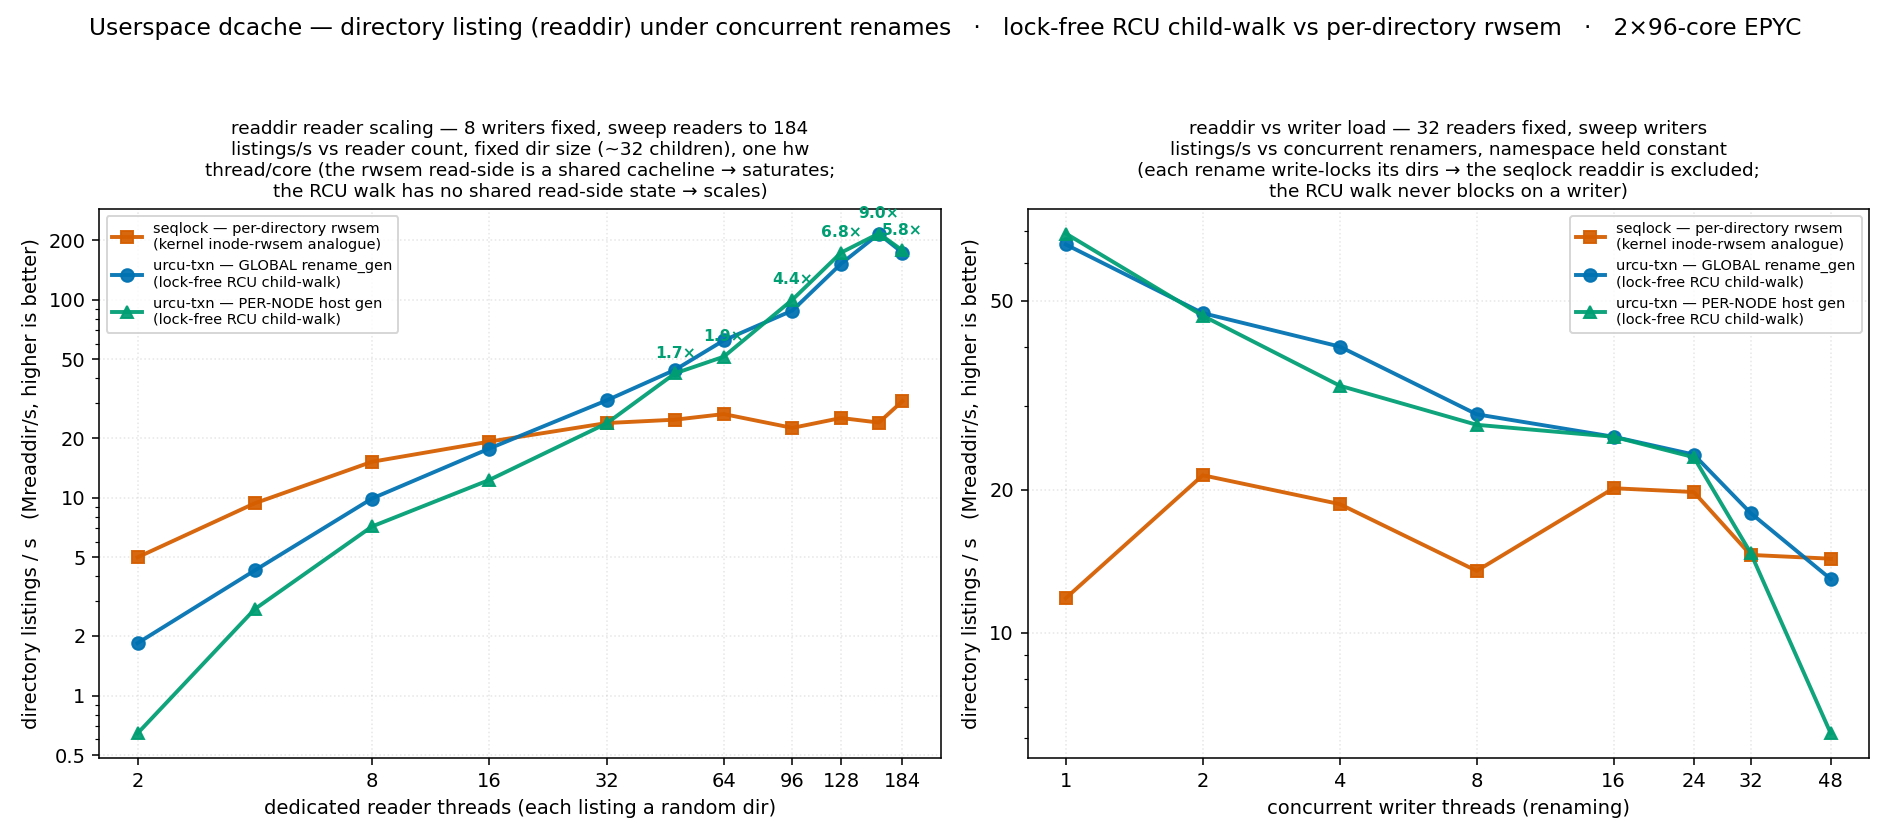
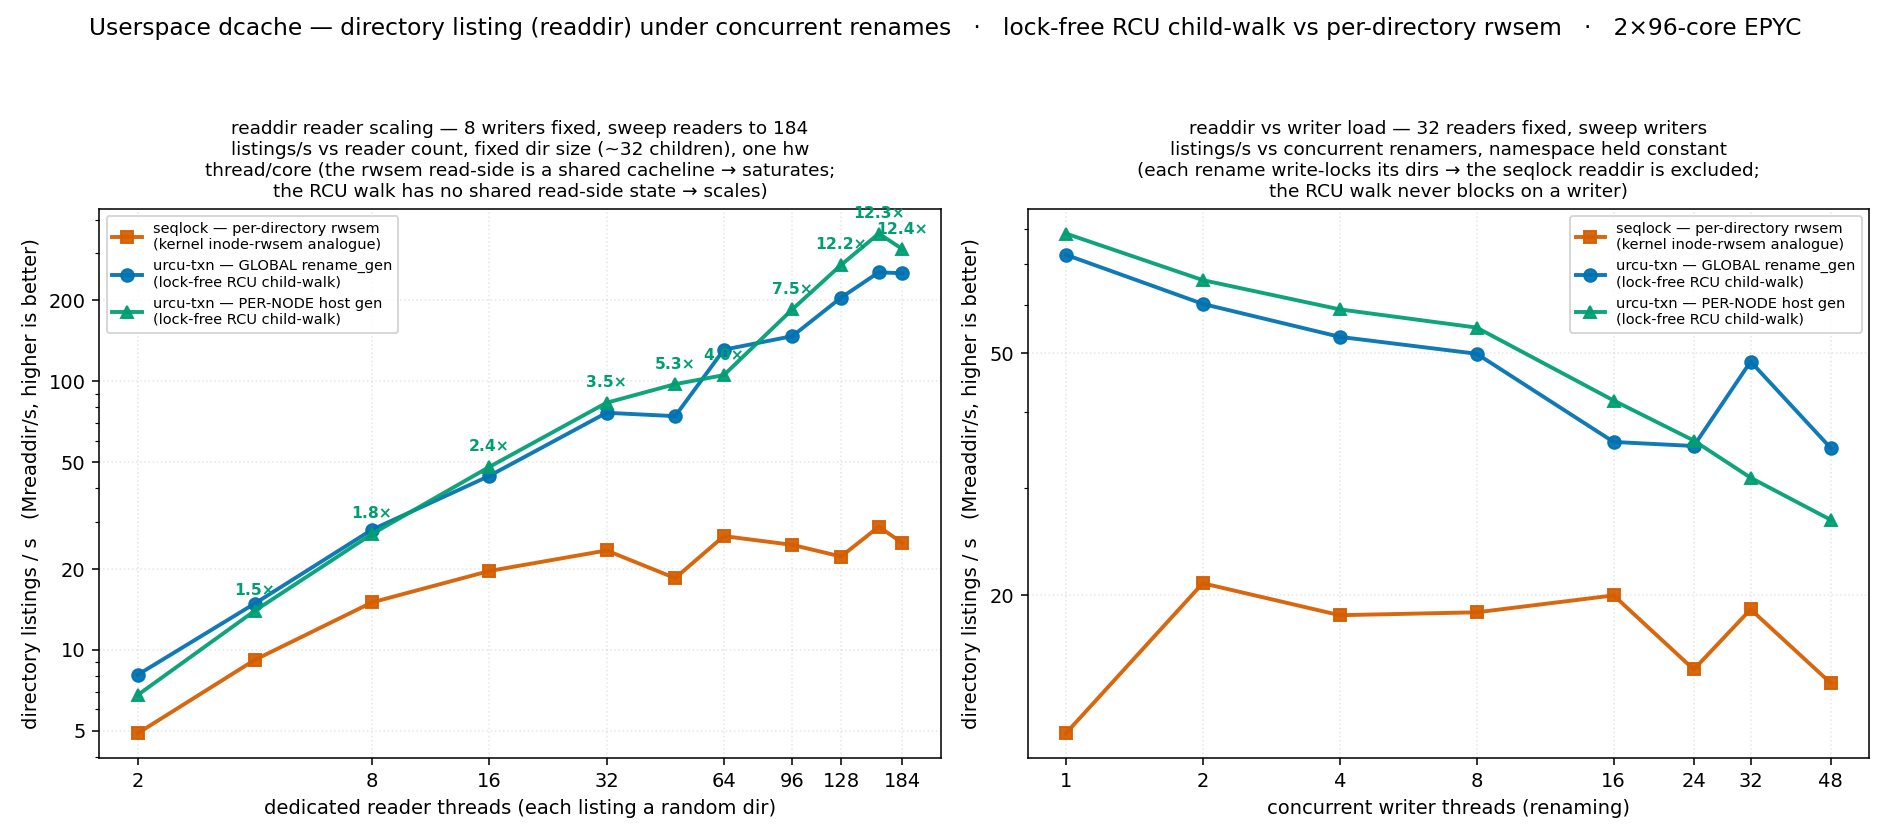
experiments/dcache: re-sweep the readdir figure on the O(1) host-skip union
The d_id/d_host union (c38a569) gives readdir's child walk an O(1) hop to
the content host (host_of_rcu) instead of an O(chain) per-child shell walk,
so the directory-listing story is no longer churn-sensitive. Re-sweep both
readdir panels on the union engine and regenerate the figure:

  - reader-scaling (8 writers, sweep readers to 184): txn now scales to
    ~355 listings/s at 160 readers (~12x the per-dir rwsem, which saturates
    ~15-29) and LEADS at every reader count -- the old ~24-32-reader
    crossover, where the rwsem's plain d_sib walk led, is gone.
  - writer-load (32 readers, sweep writers, namespace fixed): txn stays
    ~2x above the rwsem even at a saturating 48-writer rename load (~27-35
    vs ~14) instead of dipping below it. The residual decline with writer
    count is now write-side MCAS/coherence pressure, not the reader walk.

Revise the readdir subsection of rename-shell-transition.md and the
S3-readdir README bullet to match, crediting the write-once d_host skip
pointer as the mechanism. Add PANELS= support to run_dcache.sh so a single
panel can be re-swept in place without disturbing the other CSV rows.

142-row sweep, 0 conservation failures.

diff --git a/experiments/dcache/rename-shell-transition.md b/experiments/dcache/rename-shell-transition.md
@@ -391,26 +391,33 @@ readers enumerate a random dir while writers rename; the namespace is owned only
 the writers, so dir size is fixed as readers scale. Two axes:
 
 - **Reader scaling** (8 writers, sweep readers to 184, ~32 children/dir): the txn
-  walk **scales to ~216 listings/s at 160 readers** (177 at 184, writers sharing
-  the last cores) while the per-dir rwsem **saturates at ~22–30** — its read-side
+  walk **scales to ~355 listings/s at 160 readers** (310 at 184, writers sharing
+  the last cores) while the per-dir rwsem **saturates at ~15–29** — its read-side
   is a shared cacheline that bounces among readers listing the same dir. At the
-  peak that is **~9× the rwsem baseline**. Below ~24–32 readers the rwsem *leads*:
-  the txn walk pays a per-child `chain_host_rcu` shell-resolution that the plain
-  `d_sib` walk does not, so it only wins once the rwsem read-side contends.
+  peak that is **~12× the rwsem baseline**, and the txn walk **leads at every
+  reader count** (even two readers). It no longer pays a per-child chain walk: the
+  `d_host` skip pointer (below) resolves the content host in O(1), so the earlier
+  low-reader crossover — where the rwsem's plain `d_sib` walk led — is gone.
 - **Writer load** (32 readers, sweep writers, namespace fixed): the txn walk leads
-  **~5–6×** at light write load, but that same per-child shell resolution is
-  **churn-sensitive** — under a saturating rename load it declines and converges
-  with, then dips *below*, the rwsem baseline (at 48 writers, txn ~6–13 vs rwsem
-  ~14). `readdir` is read-mostly in practice (directories are listed far more than
-  renamed), so the reader-scaling axis is the operative regime.
+  **~6–7×** at light write load and **stays ~2× above** the rwsem even under a
+  saturating rename load (48 writers: txn ~27–35 vs rwsem ~14). It still declines
+  as writers rise, but that is now **write-side** pressure — concurrent MCAS churn
+  on the child hlists plus coherence traffic — not the reader path, which is O(1)
+  in chain depth. (Before the skip pointer this axis was the one wrinkle: the
+  per-child chain walk made listing churn-sensitive and it dipped *below* the
+  rwsem at 48 writers. Now it does not.)
 
 **Gen-independence.** `readdir` reads **no generation counter at all**, so
-`txn-global` and `txn-pernode` run identical listing code and their curves overlap
-throughout — the global-vs-per-node distinction that decided the lookup path is
-**moot** for listing. Directory listing is thus the *easy* case for the port: it
-dissolves to a bare RCU child-hlist walk with no `rename_gen`, no `d_seq`, no
-cursor. The one honest cost is that walk's per-child shell resolution under heavy
-concurrent rename churn.
+`txn-global` and `txn-pernode` run near-identical listing code and their reader
+curves track together — the global-vs-per-node distinction that decided the lookup
+path is **moot** for listing (any divergence at saturating write load is a
+writer-side effect, not the walk). Directory listing is thus the *easy* case for
+the port: it dissolves to a bare, O(1)-resolved RCU child-hlist walk with no
+`rename_gen`, no `d_seq`, no cursor. The former per-child chain walk that made it
+churn-sensitive was removed by a **write-once `d_host` skip pointer overlaid on
+`d_id`** (`host_of_rcu`): a host reads the slot as its id, a shell as a pointer
+straight to the tail host, discriminated by `d_fwd==NULL` — one hop to the host at
+zero memory cost.
 
 ## Concurrent operations mid-transition
 

diff --git a/experiments/dcache/README.md b/experiments/dcache/README.md
@@ -205,10 +205,13 @@ contended sweep. A race we can't trigger on demand we don't claim to have fixed.
   analogue, not one global lock). **Finding: listing is the *easy* case — the txn
   `readdir` reads no generation counter at all, so `txn-global` ≡ `txn-pernode`
   (they overlap), and it dissolves to a bare lock-free RCU child-hlist walk.** It
-  **scales to ~216 listings/s at 160 readers (~9× the rwsem, which saturates ~25**
-  — its read-side is a shared cacheline); the one honest cost is a per-child
-  shell-resolution that makes the walk churn-sensitive, converging with the rwsem
-  under a saturating rename load. Both engines conservation-clean + ASan-clean.
+  **scales to ~355 listings/s at 160 readers (~12× the rwsem, which saturates ~15–29**
+  — its read-side is a shared cacheline), and it **leads at every reader count**.
+  A **write-once `d_host` skip pointer overlaid on `d_id`** (`host_of_rcu`) resolves
+  the content host in O(1) regardless of chain depth, so the walk is no longer
+  churn-sensitive: under a saturating rename load it **stays ~2× above** the rwsem
+  (48 writers: ~27–35 vs ~14) instead of dipping below. Both engines
+  conservation-clean + ASan-clean.
 - **S4** — simplification analysis (LOC + invariant surface: which
   counters/fallbacks disappear) + scaling figures + writeup back into `design/`.
 
